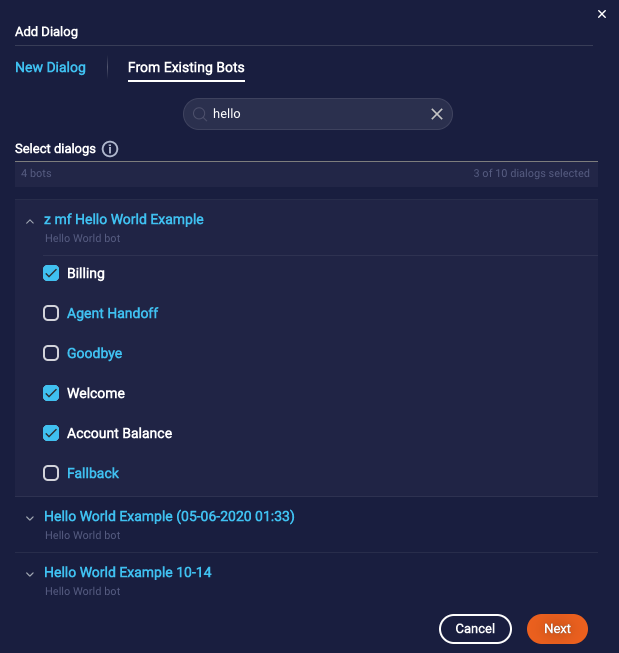
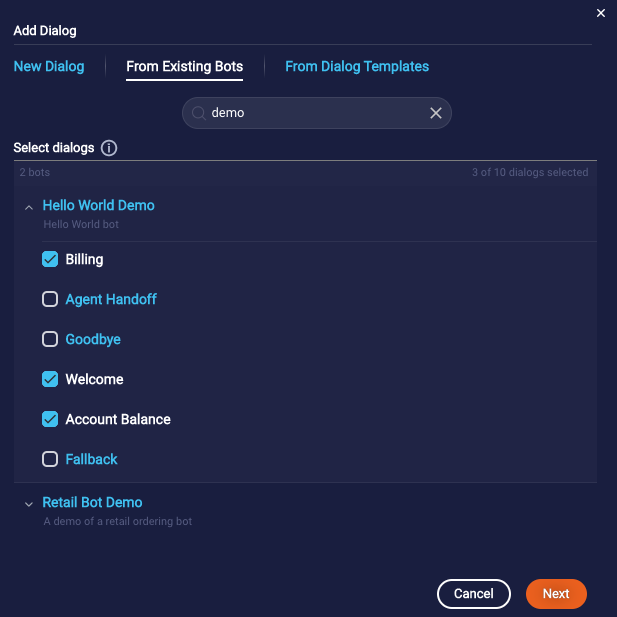
Add support for Dialog Templates

diff --git a/pages/Documents/ConversationalAI/ConversationBuilder/Dialogs/dialog-basics.md b/pages/Documents/ConversationalAI/ConversationBuilder/Dialogs/dialog-basics.md
@@ -77,7 +77,7 @@ When you import dialogs, consider and address any dependencies across the dialog
 1. Open the destination bot.
 2. Click **Add Dialog** in the lower-left corner.
 3. In the Add Dialog window, select the **From Existing Bots** tab.
-4. Browse and/or search to find and select the dialogs to import. You can select up to 10 dialogs. <!-- You can't select dialogs that are made available as [dialog templates](conversation-builder-dialog-templates.html); these you must import as a dialog template. -->
+4. Browse and/or search to find and select the dialogs to import. You can select up to 10 dialogs. You can't select dialogs that are made available as [dialog templates](conversation-builder-dialog-templates.html); these you must import as a dialog template.
 
     <img class="fancyimage" style="width:600px" src="img/ConvoBuilder/dialogs_import1.png">
 
